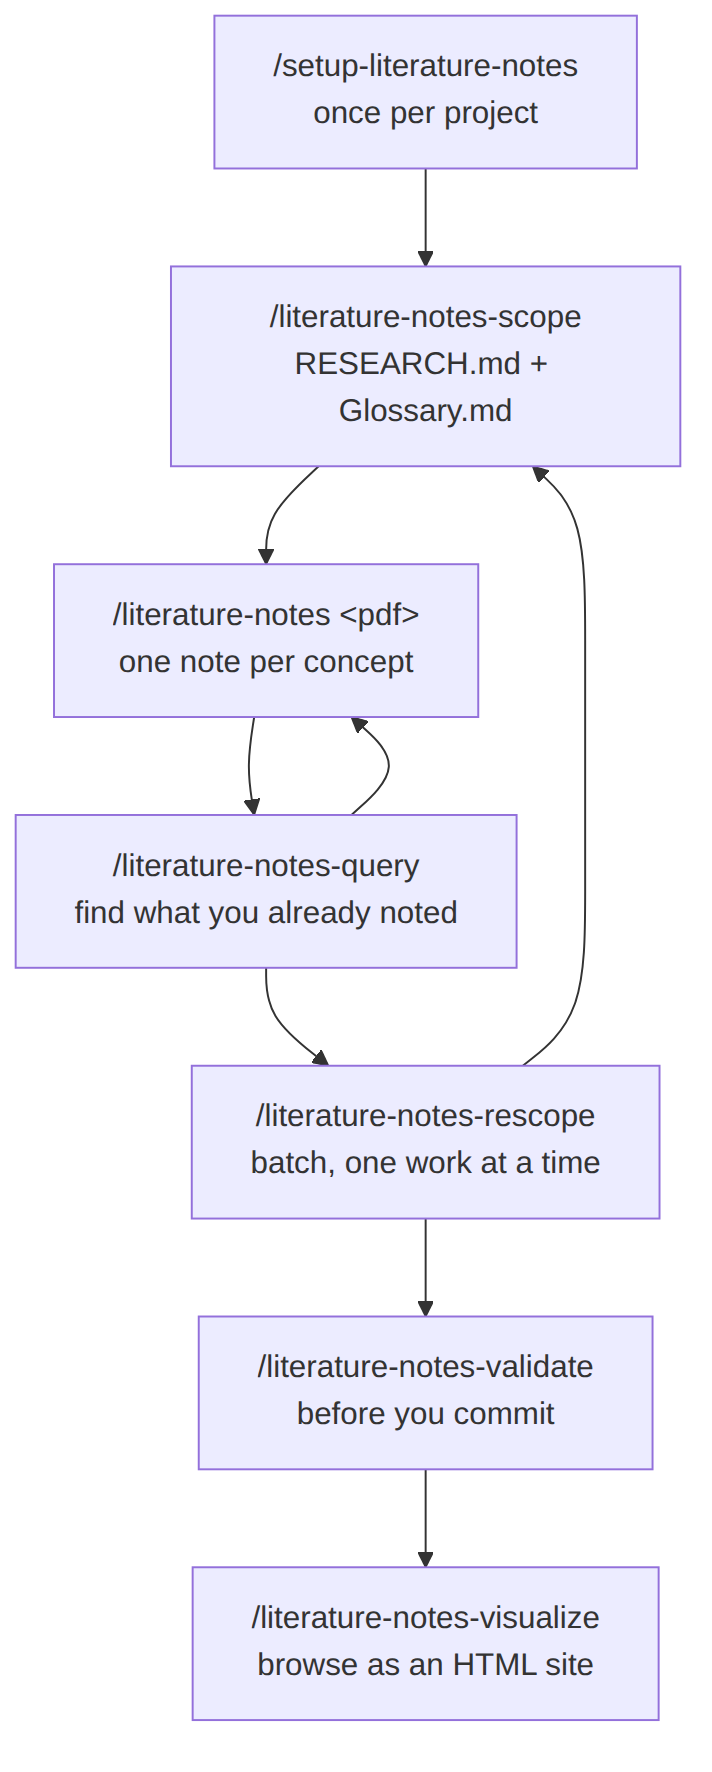
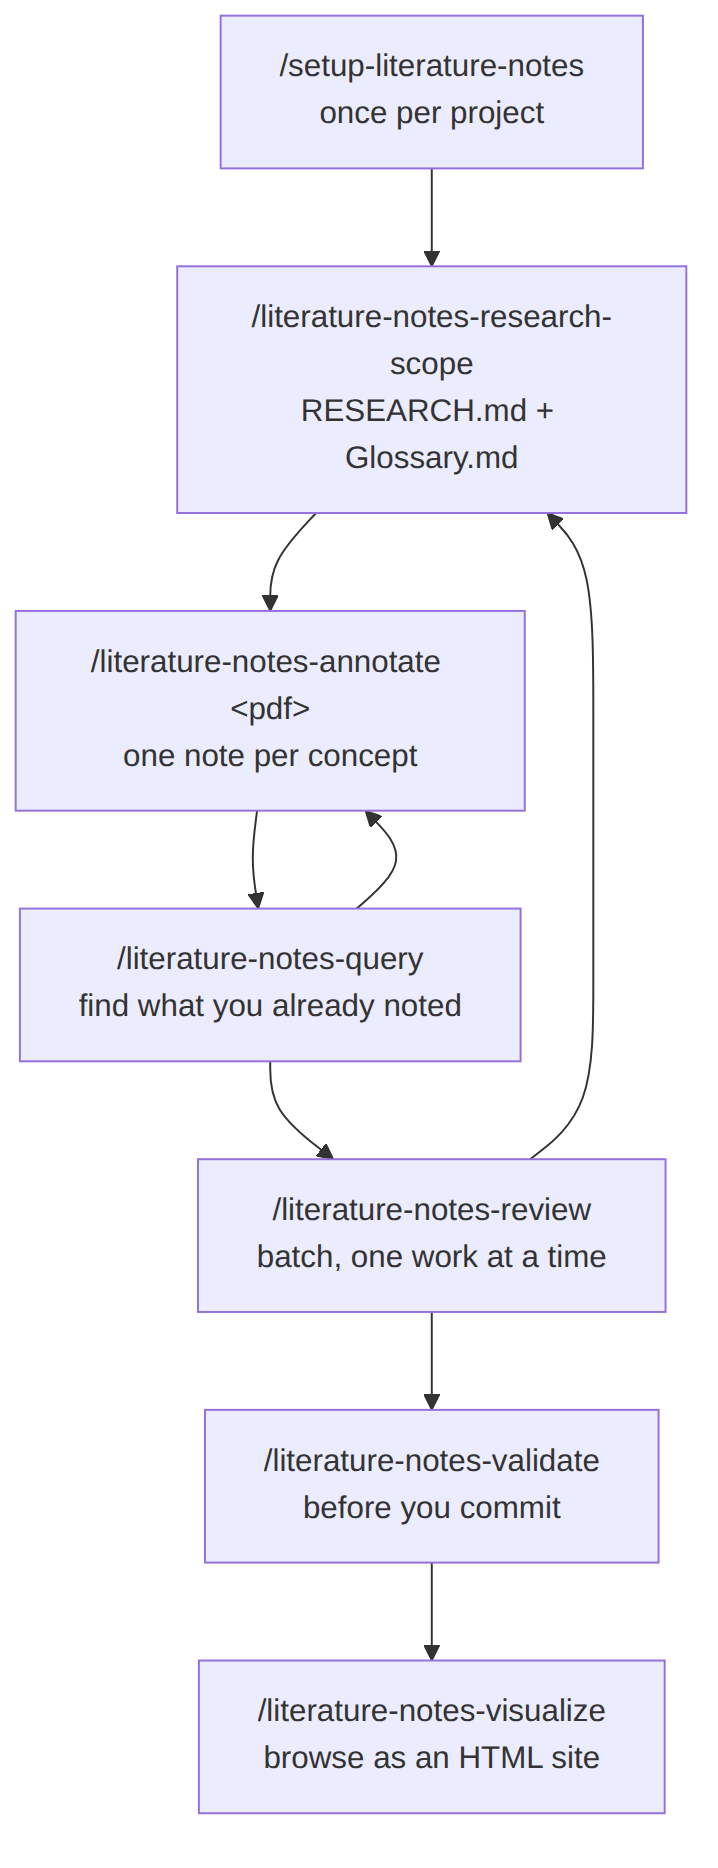
docs: update the site for the renamed skills and citation norms
The pack now asks for the citation norm at setup, supports PDF or printed page
numbers and can check quotes against the PDF. Three skills were renamed.
Update every page, regenerate the diagrams, switch the example to APA 7 and
embed the demo video.

diff --git a/pt-br/index.md b/pt-br/index.md
@@ -8,36 +8,48 @@ title: literature-notes (PT-BR)
 
 Oito skills de agente que transformam fontes acadêmicas (artigos, dissertações,
 teses e livros) em uma wiki estruturada e consultável de notas de leitura.
-Cada nota é ancorada a uma página, marcada com um glossário controlado e lida
-à luz da sua pergunta de pesquisa.
+Cada nota é ancorada a uma página, citada na norma que a sua pesquisa segue,
+marcada com um glossário controlado e lida à luz da sua pergunta de pesquisa.
 
 Disponível na Agensi. Licença de um usuário.
+
+<div style="position:relative;padding-bottom:56.25%;height:0;overflow:hidden;margin:1em 0;">
+  <iframe src="https://www.youtube.com/embed/thB-ZFvSV0k" title="Demonstração do literature-notes" style="position:absolute;top:0;left:0;width:100%;height:100%;border:0;" allowfullscreen></iframe>
+</div>
+
+[Assistir no YouTube](https://youtu.be/thB-ZFvSV0k)
 
 ![O fluxo de trabalho](../assets/d1.png)
 
 ## O que faz
 
 - Extrai notas de um PDF, uma por conceito, em três tipos: **autoral** (ideia
-  sua), **interpretativa** (sua leitura do autor) e **resumo** (relato neutro),
-  com metadados de citação ABNT.
+  sua), **interpretativa** (sua leitura do autor) e **resumo** (relato neutro).
+- Cita na **sua** norma. O setup pergunta qual você segue (APA, ABNT, MLA,
+  Chicago ou outra norma formal), pesquisa as regras, mostra um rascunho e só
+  o congela depois que você aprova.
+- Aponta a página certa, pela página do PDF ou pela página impressa, com um
+  deslocamento quando elas diferem.
 - Mantém um escopo de pesquisa (`RESEARCH.md`) e um glossário controlado
-  (`Glossary.md`) a que toda nota responde.
+  (`Glossary.md`), e uma etapa de revisão que os atualiza conforme a leitura
+  muda o seu entendimento.
 - Consulta por tag, fonte, tipo de nota, página, links de influência, status
   de verificação ou texto livre.
-- Valida a base: tags desconhecidas, links quebrados, termos sem definição.
+- Valida a base (tags desconhecidas, links quebrados, termos sem definição) e
+  pode conferir se cada citação literal aparece mesmo na página citada.
 - Gera um site HTML somente leitura, com busca, backlinks e grafo de links.
-- Escreve no seu idioma. Uma citação mantém o idioma da fonte.
+- Escreve no seu idioma. Uma citação literal mantém o idioma da fonte.
 
 ## As oito skills
 
 | Skill | Para que serve |
 | --- | --- |
-| `setup-literature-notes` | Preparação única: cria `.literature-notes/` e escolhe o estilo de links. |
-| `literature-notes-scope` | Definir a pergunta de pesquisa e o glossário. |
-| `literature-notes` | Ler um PDF e escrever as notas. |
+| `setup-literature-notes` | Preparação única: cria `.literature-notes/`, escolhe o estilo de links, a norma de citação e como você conta as páginas. |
+| `literature-notes-research-scope` | Definir a pergunta de pesquisa e o glossário. |
+| `literature-notes-annotate` | Ler um PDF e escrever as notas. |
+| `literature-notes-review` | Conciliar notas pendentes com o escopo, uma pergunta de cada vez. |
 | `literature-notes-query` | Buscar o que você já anotou. |
-| `literature-notes-rescope` | Conciliar notas pendentes com o escopo. |
-| `literature-notes-validate` | Checar referências quebradas antes do commit. |
+| `literature-notes-validate` | Checar referências quebradas e, se quiser, as citações literais, antes do commit. |
 | `literature-notes-visualize` | Gerar o site HTML. |
 | `literature-notes-ask-how` | Perguntar qual skill serve ao que você faz. |
 
@@ -45,16 +57,22 @@ Disponível na Agensi. Licença de um usuário.
 
 ![Estrutura em disco](../assets/d2.png)
 
-1. `/setup-literature-notes`: uma vez por projeto.
-2. `/literature-notes-scope`: pergunta de pesquisa, limites e glossário.
-3. `/literature-notes <caminho-do-pdf>`: ler uma fonte, filtrada pelo escopo.
+1. `/setup-literature-notes`: uma vez por projeto. Pergunta o estilo de links, a norma de citação e se você cita a página do PDF ou a impressa.
+2. `/literature-notes-research-scope`: pergunta de pesquisa, limites e glossário.
+3. `/literature-notes-annotate <caminho-do-pdf>`: ler uma fonte, filtrada pelo escopo.
 4. `/literature-notes-query`: buscar o que já está anotado.
-5. `/literature-notes-rescope`: de tempos em tempos, em lote.
-6. `/literature-notes-validate`: antes de cada commit.
+5. `/literature-notes-review`: de tempos em tempos, em lote. Entrevista você e atualiza o escopo.
+6. `/literature-notes-validate`: antes de cada commit. Com `--check-quotes`, confere as citações literais.
 
 **Instalação:** copie cada pasta de `skills/` para a pasta de skills do seu
 agente (no Claude Code, `~/.claude/skills/` ou `.claude/skills/`). Requer
-Python 3. A skill `rescope` usa a skill gratuita `grilling`, de terceiros. O
+Python 3. A skill `review` usa a skill gratuita `grilling`, de terceiros. O
 visualizador HTML carrega fontes e bibliotecas de CDNs públicas.
+
+**Versão anterior com campos `abnt_*`:** rode de novo o `/setup-literature-notes`.
+Ele lista o que seria migrado e só altera depois da sua confirmação. Três
+skills foram renomeadas: `literature-notes` virou `literature-notes-annotate`,
+`literature-notes-scope` virou `literature-notes-research-scope` e
+`literature-notes-rescope` virou `literature-notes-review`.
 
 **Licença:** de um usuário. As notas que você cria são suas.

diff --git a/example.md b/example.md
@@ -4,57 +4,78 @@ title: A worked example
 
 [Home](./) | [How to use it](how-to-use) | **Example** | [FAQ](faq)
 
-# A worked example
+# A worked example, in APA 7
 
-A researcher is studying the limits of judicial activism at Brazil's Supreme
-Court (STF).
+A researcher is reading two papers on language models: *Attention Is All You
+Need* (Vaswani et al.) and *BERT* (Devlin et al.), and cites them in APA 7.
 
 ```bash
-# 1. One-time setup
-/setup-literature-notes --link-style obsidian
+# 1. One-time setup: link style and citation norm
+/setup-literature-notes --link-style obsidian --citation-style apa7
 
 # 2. State the scope (a conversation, not a flag)
-/literature-notes-scope
+/literature-notes-research-scope
 
 # 3. Read a source against that scope
-/literature-notes ~/papers/dworkin-1986-taking-rights-seriously.pdf \
-  --pages 45-60 --focus "how judicial discretion is theorized"
+/literature-notes-annotate ~/papers/vaswani-2023-attention-is-all-you-need.pdf \
+  --pages 2-6 --focus "how attention replaces recurrence and convolution"
 
 # 4. Find what you noted so far
-/literature-notes-query --note-kind interpretive --tag regra-vs-principio
+/literature-notes-query --tag attention
 
 # 5. Reconcile notes with the scope
-/literature-notes-rescope
+/literature-notes-review
 
 # 6. Before committing .literature-notes/ changes
-/literature-notes-validate
+/literature-notes-validate --check-quotes
 ```
 
 ## What step 3 produces
 
-A source record and a note. This is one interpretive note, written in the
-researcher's language, with the quote kept in the original:
+A source record, with its reference in the chosen norm, and a note with its
+citation. This is the source:
 
 ```markdown
 ---
-type: "Reading Note"
-source_id: "[[dworkin-1986]]"
-page: 52
-note_kind: interpretive
-tags: [regra-vs-principio]
-abnt_citation: "(DWORKIN, 1986, p. 52)"
+type: Reference
+author: Vaswani, Ashish; Shazeer, Noam; Parmar, Niki; ...
+kind: article
+title: Attention Is All You Need
+year: 2023
+pdf_path: ~/papers/vaswani-2023-attention-is-all-you-need.pdf
+page_offset: 0
+references:
+  apa7:
+    text: Vaswani, A., Shazeer, N., Parmar, N., Uszkoreit, J., Jones, L., Gomez, A. N., Kaiser, Ł., & Polosukhin, I. (2023). *Attention is all you need*. arXiv. https://doi.org/10.48550/arXiv.1706.03762
+tags: [transformer, attention]
 ---
-
-> "Rules are applicable in an all-or-nothing fashion. If the facts a rule
-> stipulates are given, then either the rule is valid, in which case the
-> answer it supplies must be accepted, or it is not."
-
-Dworkin's rule/principle distinction is what makes room for
-[[Glossary#Judicial Activism]] in the first place: a rule alone can't decide
-a case where competing principles are in play, and it's exactly that gap
-courts fill when weighing principles against each other.
 ```
 
-The full pack includes a complete example bundle, with two sources, three
-notes of all three kinds, a research scope, a glossary and a decision record,
-that validates cleanly with the pack's own scripts.
+And this is one note, a summary, anchored to page 5:
+
+```markdown
+---
+type: Reading Note
+source_id: '[[vaswani-2023]]'
+page: 5
+note_kind: summary
+tags: [attention, transformer]
+citations:
+  apa7:
+    text: (Vaswani et al., 2023, p. 5)
+---
+
+> "Multi-head attention allows the model to jointly attend to information
+> from different representation subspaces at different positions."
+
+## Configuration used
+
+- h = 8 parallel attention heads.
+- dk = dv = dmodel / h = 64 per head, so the total cost is similar to
+  single-head attention at full dimensionality.
+```
+
+The full pack includes two complete example bundles: this one, in APA 7, with
+two sources and seven notes, and another in ABNT on judicial activism, with a
+review interview and a decision record. Both validate cleanly with the pack's
+own scripts.

diff --git a/index.md b/index.md
@@ -8,46 +8,59 @@ title: literature-notes
 
 Eight agent skills that turn academic sources (articles, dissertations,
 theses and books) into a structured, queryable wiki of reading notes. Every
-note is anchored to a page, tagged against a controlled glossary, and read
-through your research question.
+note is anchored to a page, cited in the norm your research follows, tagged
+against a controlled glossary, and read through your research question.
 
 Available on Agensi. Single-user license.
 
-![The workflow](assets/d1.png)
+<div style="position:relative;padding-bottom:56.25%;height:0;overflow:hidden;margin:1em 0;">
+  <iframe src="https://www.youtube.com/embed/thB-ZFvSV0k" title="literature-notes demo" style="position:absolute;top:0;left:0;width:100%;height:100%;border:0;" allowfullscreen></iframe>
+</div>
+
+[Watch on YouTube](https://youtu.be/thB-ZFvSV0k)
 
 ## What it does
 
 - Takes notes from a PDF, one note per concept, in three kinds:
   **authorial** (your own idea), **interpretive** (your reading of the
-  author) and **summary** (a neutral account), each with ABNT citation
-  metadata.
+  author) and **summary** (a neutral account).
+- Cites in **your** norm. Setup asks which one you follow (APA, ABNT, MLA,
+  Chicago or another formal norm), looks up the rules, shows you a draft and
+  freezes it only after you approve. Every note then carries its citation in
+  that norm.
+- Points at the right page, by PDF page or by the page printed in the book,
+  with an offset when the two differ.
 - Keeps a research scope (`RESEARCH.md`) and a controlled glossary
-  (`Glossary.md`) that every note answers to.
+  (`Glossary.md`) that every note answers to, and a review step that updates
+  them as your reading changes your mind.
 - Queries the notes by tag, source, note kind, page, influence links,
   verification status or free text.
-- Validates the bundle for broken references: unknown tags, dangling links,
-  undefined glossary terms.
+- Validates the bundle for broken references (unknown tags, dangling links,
+  undefined glossary terms), and can check that each quote really appears on
+  the page you cited.
 - Builds a read-only HTML "second brain" with full-text search, backlinks and
   a link graph.
 - Writes in your language. A quoted passage stays in the source's language.
+
+![The workflow](assets/d1.png)
 
 ## The eight skills
 
 | Skill | Use it to |
 | --- | --- |
-| `setup-literature-notes` | One-time setup: scaffold `.literature-notes/` and pick a link style. |
-| `literature-notes-scope` | State the research question and the glossary. |
-| `literature-notes` | Read a PDF and write the notes. |
+| `setup-literature-notes` | One-time setup: scaffold `.literature-notes/`, pick the link style, the citation norm and how you count pages. |
+| `literature-notes-research-scope` | State the research question and the glossary. |
+| `literature-notes-annotate` | Read a PDF and write the notes. |
+| `literature-notes-review` | Reconcile pending notes with the scope, one question at a time. |
 | `literature-notes-query` | Search what you already noted. |
-| `literature-notes-rescope` | Reconcile pending notes with the scope. |
-| `literature-notes-validate` | Check for broken references before a commit. |
+| `literature-notes-validate` | Check for broken references and, optionally, quotes before a commit. |
 | `literature-notes-visualize` | Generate the HTML site. |
 | `literature-notes-ask-how` | Ask which skill fits what you are doing. |
 
 ## Keep reading
 
 - [How to use it, in diagrams](how-to-use)
-- [A worked example](example)
+- [A worked example, in APA 7](example)
 - [FAQ](faq)
 
 ## Why a query stays cheap

diff --git a/how-to-use.md b/how-to-use.md
@@ -14,14 +14,14 @@ projects or `.claude/skills/` for one project). Then run
 `/setup-literature-notes` once in your research project.
 
 Requirements: Python 3. The skills install `pyyaml` and `pypdf` with `pip` the
-first time they run. `literature-notes-rescope` also uses the free third-party
+first time they run. `literature-notes-review` also uses the free third-party
 `grilling` skill. The HTML viewer loads its fonts and libraries from public
 CDNs when you open it in a browser.
 
 ## 1. The workflow
 
 Run `/setup-literature-notes` once. After that you loop through scope, read,
-query and reconcile, and validate before you commit.
+query and review, and validate before you commit.
 
 ![The workflow](assets/d1.png)
 
@@ -41,15 +41,28 @@ Everything the skills create sits in `.literature-notes/` inside your project.
 
 ## Step by step
 
-1. `/setup-literature-notes`: once per project. Asks whether cross-references
-   are Obsidian wikilinks or plain Markdown links.
-2. `/literature-notes-scope`: state the research question, what is out of
-   scope, and the terms worth pinning down.
-3. `/literature-notes <pdf-path>`: read a source or a page range, filtered by
-   that scope. This is the step you run most.
+1. `/setup-literature-notes`: once per project. It asks for three things: how
+   cross-references are written (Obsidian wikilinks or plain Markdown links),
+   which **citation norm** your research follows, and whether you point at
+   **PDF pages** or **printed pages**. For the norm, it looks up the rules,
+   shows you a draft file and freezes it only after you approve it.
+2. `/literature-notes-research-scope`: state the research question, what is out
+   of scope, and the terms worth pinning down.
+3. `/literature-notes-annotate <pdf-path>`: read a source or a page range,
+   filtered by that scope. This is the step you run most.
 4. `/literature-notes-query`: search what you already noted. Run it often.
-5. `/literature-notes-rescope`: now and then, batch the notes nobody has
-   reconciled with the scope.
-6. `/literature-notes-validate`: before every commit.
+5. `/literature-notes-review`: now and then, batch the notes nobody has
+   reconciled with the scope. It interviews you and updates `RESEARCH.md` and
+   `Glossary.md` where your answers push them.
+6. `/literature-notes-validate`: before every commit. Add `--check-quotes` to
+   confirm each quote appears on the PDF page you cited.
 
 Not sure where you are? Run `/literature-notes-ask-how`.
+
+## Changing the citation norm later
+
+Re-run `/setup-literature-notes` to add or switch a norm. Existing notes keep
+the citations they have, and each norm lives in its own file, so a bundle can
+carry more than one. A bundle made before this setting, with `abnt_*` fields,
+can be migrated: the setup lists what would change and rewrites only when you
+confirm.

diff --git a/faq.md b/faq.md
@@ -6,6 +6,13 @@ title: FAQ
 
 # FAQ
 
+**Which citation norms does it support?**
+Any formal academic norm. Setup asks which one you follow, looks up its rules,
+shows you a draft and freezes it after you approve. APA 7 is suggested first,
+and ABNT, MLA and Chicago author-date work the same way. Official manuals are
+often paid, so the draft says which sources it used, and you should compare it
+with your own copy of the norm.
+
 **Which agents does it work with?**
 The skills follow the open `SKILL.md` standard, so they work with compatible
 agents such as Claude Code, Codex CLI and Cursor. Test it in yours before
@@ -22,13 +29,26 @@ The HTML viewer loads fonts and libraries from public CDNs when opened.
 **Who owns the notes?**
 You do. The license covers the pack, not the notes you create with it.
 
-**Why does `/literature-notes-rescope` ask for another skill?**
+**Why does `/literature-notes-review` ask for another skill?**
 It runs an interview with the free `grilling` skill, which is not bundled.
 
 **Can I trust the generated notes?**
 Treat them as drafts. Every note carries a `generated` mark, and
 `/literature-notes-query --verified false` lists the ones you have not checked.
-Always compare a quote and its page with the original source.
+`/literature-notes-validate --check-quotes` also confirms that each quote
+appears on the PDF page you cited, which catches wrong pages and altered
+quotes. It does not replace reading the original.
+
+**My book's printed pages differ from the PDF pages. Does it handle that?**
+Yes. Setup asks whether you cite PDF pages or printed pages, and each source
+can carry a page offset.
+
+**I used an older version with ABNT fields. Do I lose anything?**
+No. Re-run `/setup-literature-notes` and it lists the old `abnt_*` fields and
+migrates them only after you confirm. Three skills were renamed in this
+version: `literature-notes` is now `literature-notes-annotate`,
+`literature-notes-scope` is `literature-notes-research-scope`, and
+`literature-notes-rescope` is `literature-notes-review`.
 
 **What is the license?**
 A single-user commercial license. You can use the pack for your own research
